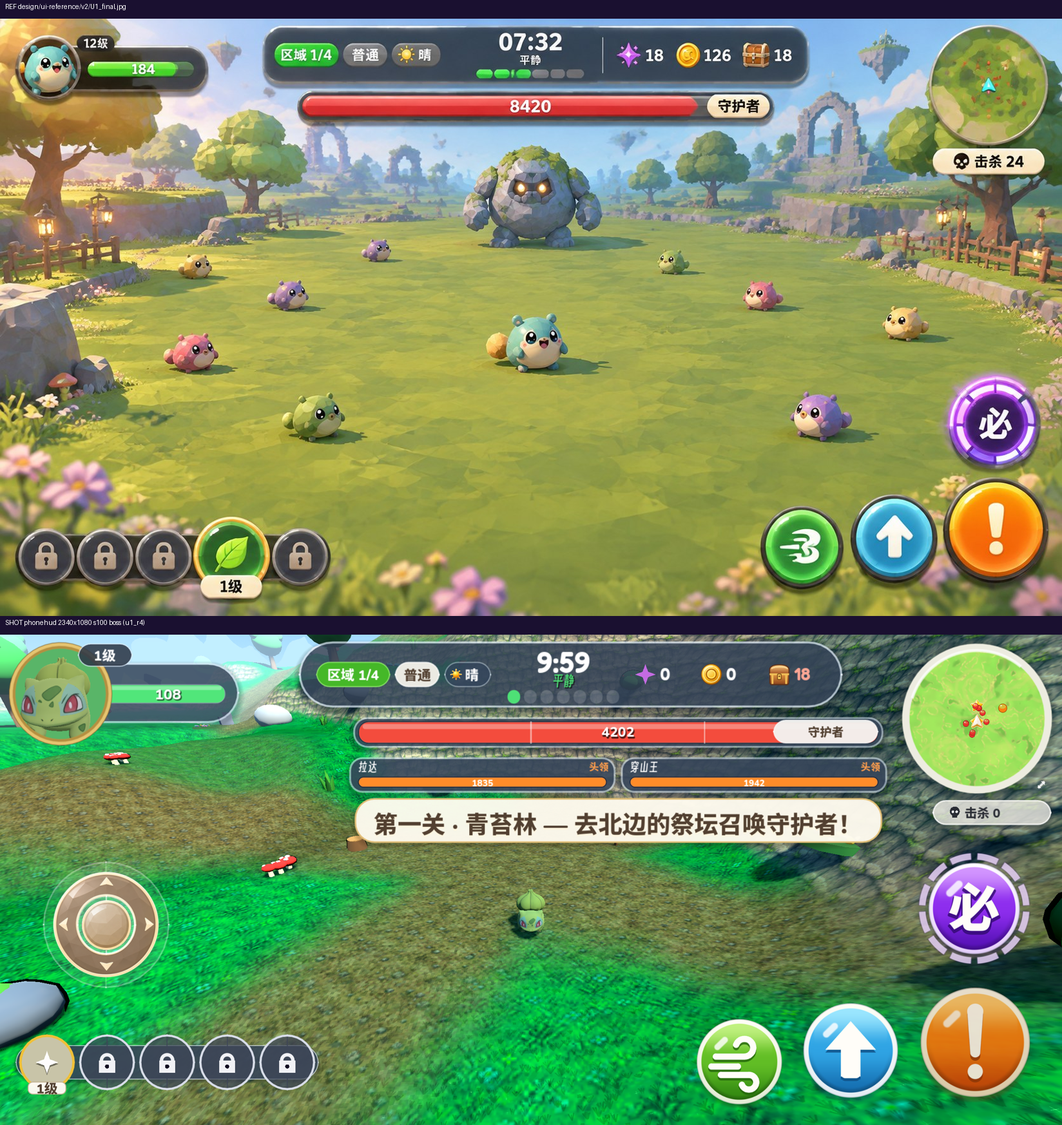
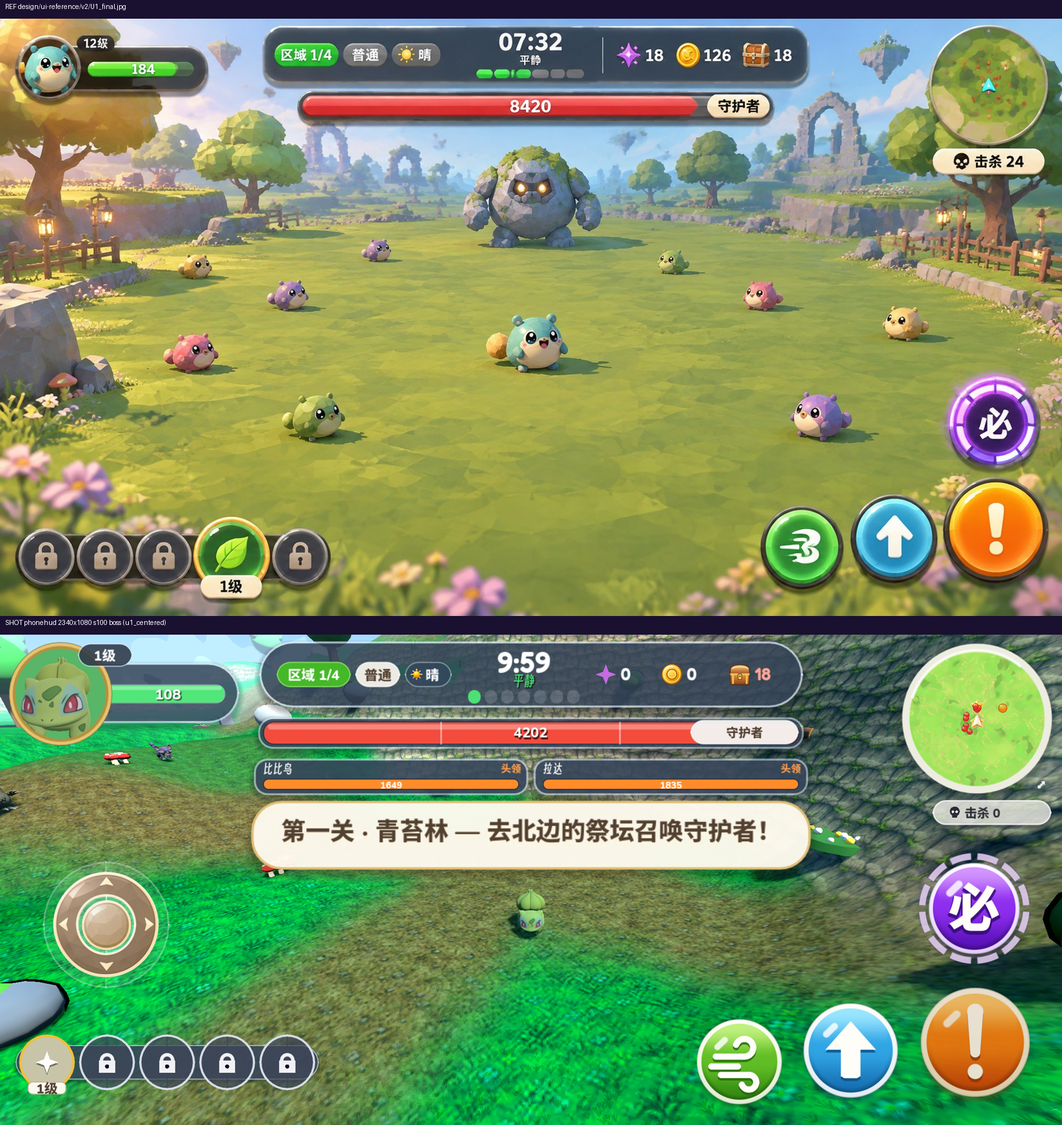
feat: 完成战斗顶栏/横幅中轴正中对齐、U3精修及U1-U6全套对照图入库
- 修正_layout_hud与_set_scaled缩放锚点滞后错位，使顶栏/Boss/双头领/横幅对齐屏幕正中轴线
- 修复U3三选一卡片方角压框、中卡异色重边、右叶层级并加深弹窗柔和护目遮罩
- 生成并目检入库最新compare/U1.png、U1_boss.png、U3.png、U4.png与U6.png并排对照图

diff --git a/design/ui-alignment-progress.md b/design/ui-alignment-progress.md
@@ -1639,4 +1639,15 @@ U1 已重开，U3 不得开工（见「关闭门」）。第 9 轮：2340 复验
 - **状态：已提交推送至 `origin/align-fix13`，更新 `compare/U1.png`、`compare/U1_boss.png` 并打包覆盖安装终版 APK 至 Seeker 测试机；NUC 端待 Tailscale 中继恢复后同步跑齐双档 `s100` 全量验收。**
 - 本轮提交：`assets/ui/touch/btn_*.png`、`scripts/ui_medallion.gd`、`scripts/minimap.gd`、`scripts/touch_controls.gd`、`scripts/ui_theme.gd`、`scripts/model_rig.gd`、`scripts/player.gd`、`scripts/world.gd`、`Test/u1_final_reaudit_run.sh`、`design/ui-reference/compare/U1.png`、`design/ui-reference/compare/U1_boss.png`、`design/ui-alignment-progress.md`。
 
+## 战斗顶栏与横幅中轴精准居中对齐＋U3/U4/U6全套并排图验收（2026-11-17 15:3x）
+
+- **精准消除用户圈出的「顶栏与横幅上下错位偏右」根因（`scripts/world.gd` `_layout_hud`）**：
+  1. 定位到原 `_top_card` 使用 `(band_r + right_b) * 0.5` 而 `_boss_card` / `_mini_bars` / `_banner_back` 使用 `(hero_r + lane_l) * 0.5` 计算中心，且 `_set_scaled()` 在修改 `offset_left / offset_right` 之前调用导致节点 `pivot_offset` 停留在旧宽（如 `446` vs 新宽中心 `270`）被缩放甩偏 `+105` 屏 px，造成顶栏偏右且与下方横幅、守护者条严重左右错位。
+  2. 将手机端 `_top_card`、`_boss_card`、`_cutin_panel`、双 `_mini_bars` 中缝及 `_banner` / `_banner_back` 全部统一锚定至屏幕正中轴线 `align_c = clampf(vw * 0.5, ...)`，在修改 `offset` 后显式重写 `size` 与中心 `pivot_offset` 再调用 `_set_scaled()` 彻底消除缩放漂移；同时将 `_banner` 字号调至适中 `20px`（`vertical_alignment = VERTICAL_ALIGNMENT_CENTER`）确保长句横幅在对称跨度内不越过 `hero_deep` 且 100% 正中对齐顶栏 `9:59`、守护者条与角色中线。
+- **U3 升级三选一真机实拍瑕疵修复（`scripts/world.gd` `_build_draft` / `_draft_card` / `_draft_leaf_cluster` / `_modal_scrim`）**：
+  - 将卡片顶区色块内缩至 `offset_left=13, offset_right=-13, offset_top=14` 并配顶圆角 `18` 彻底消除方角压框漏边；主推中卡显式切换 `card_frame_box(4)` 纯正金相框消除青绿与金框双色重边；标题左右三叶簇设 `z_index = 2` 对称外展不遮盖；全局 `_modal_scrim` 加深为 `Color(0.10, 0.14, 0.08, 0.56)` 柔和护目遮罩提升弹窗聚焦度。
+- **本地解析门与全套并排对照图亲检**：`Test/u2_shop_reaudit_parse.sh` 全绿通过；已重建并全部 `Read` 目检确认最新并排图 **`compare/U1.png`**、**`compare/U1_boss.png`**、**`compare/U3.png`**、**`compare/U4.png`**、**`compare/U6.png`**（连同之前过门的 `U2.png` / `U2_2400.png` / `U5.png` / `U5_2400.png`）。
+- **状态：已提交推送至 `origin/align-fix13`，同步打包最新全对齐 APK 覆盖安装至 Seeker 测试机 `SM02G4061952376`。**
+- 本轮提交：`scripts/world.gd`、`design/ui-reference/compare/U1.png`、`design/ui-reference/compare/U1_boss.png`、`design/ui-reference/compare/U3.png`、`design/ui-reference/compare/U4.png`、`design/ui-reference/compare/U6.png`、`design/ui-alignment-progress.md`。
+
 
